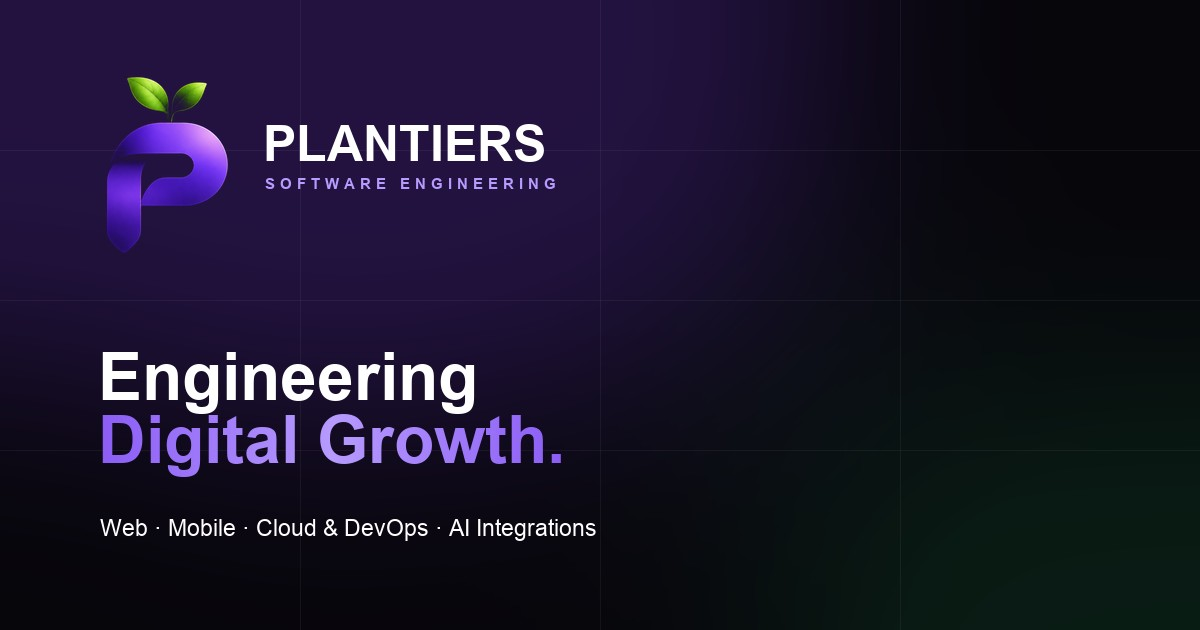
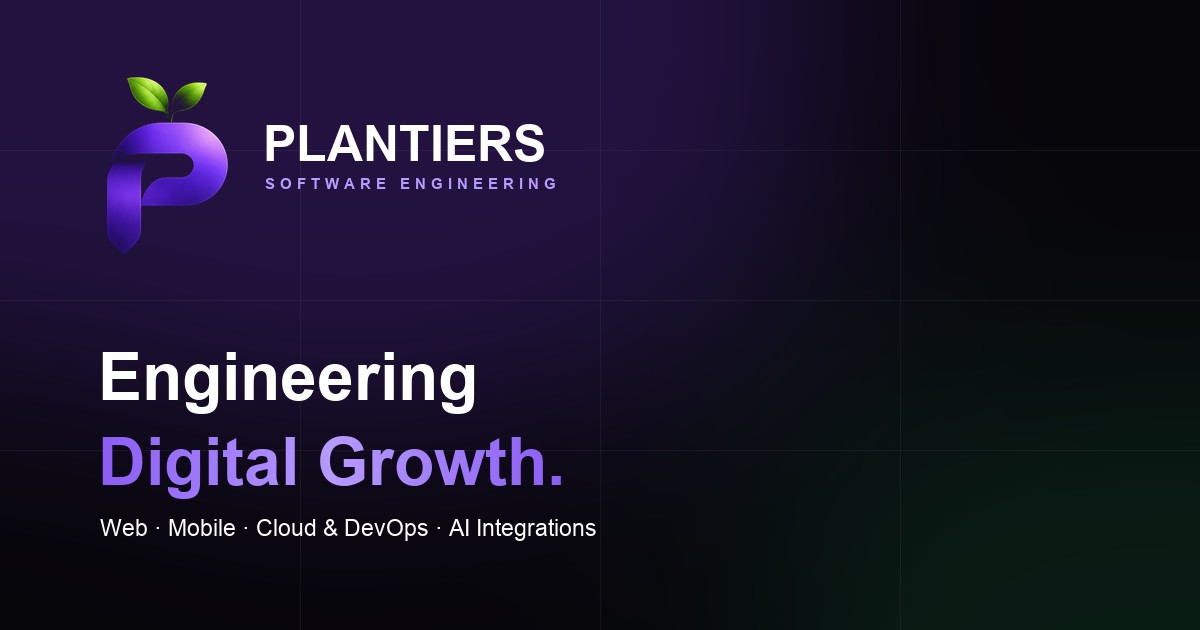
fix(brand): clipped descender on the "g" in the OG image
The gradient-text mask for "Digital Growth." sized its canvas from a
tight textbbox fit with only ~18px of bottom padding after accounting
for the vertical offset — not quite enough for the "g" descender in
"Digital", which was getting cut flat at the mask's bottom edge.
Switched to font-size-based padding (20px top, 34px bottom) instead of
a bbox-derived one, which is both correct and more robust against this
class of bug for any future copy change.

Changed region(s): [[0.0617, 0.6333, 0.4625, 0.8143]]

diff --git a/scripts/generate-brand-assets.py b/scripts/generate-brand-assets.py
@@ -86,17 +86,22 @@ def make_og_image(mark):
 
     draw.text((98, 340), 'Engineering', font=font_xl, fill=(255, 255, 255, 255))
 
+    # Generous, font-size-based padding rather than a tight textbbox fit — a
+    # bbox-relative offset previously left too little room below the
+    # baseline and clipped the descender on the "g" in "Digital".
     line2 = 'Digital Growth.'
     bbox = draw.textbbox((0, 0), line2, font=font_xl)
-    tw, th = bbox[2] - bbox[0], bbox[3] - bbox[1]
-    grad = Image.new('RGB', (tw + 4, th + 20), (0, 0, 0))
+    tw = bbox[2] - bbox[0]
+    pad_top, pad_bottom = 20, 34
+    mask_h = font_xl.size + pad_top + pad_bottom
+    grad = Image.new('RGB', (tw + 4, mask_h), (0, 0, 0))
     gdraw2 = ImageDraw.Draw(grad)
     for gx in range(tw + 4):
         t = abs(((gx / (tw + 4) * 2) % 2) - 1)
-        gdraw2.line([(gx, 0), (gx, th + 20)], fill=(int(183 + (139 - 183) * t), int(155 + (92 - 155) * t), int(255 + (246 - 255) * t)))
-    mask = Image.new('L', (tw + 4, th + 20), 0)
-    ImageDraw.Draw(mask).text((-bbox[0] + 2, -bbox[1] + 2), line2, font=font_xl, fill=255)
-    img.paste(grad, (96, 412), mask)
+        gdraw2.line([(gx, 0), (gx, mask_h)], fill=(int(183 + (139 - 183) * t), int(155 + (92 - 155) * t), int(255 + (246 - 255) * t)))
+    mask = Image.new('L', (tw + 4, mask_h), 0)
+    ImageDraw.Draw(mask).text((-bbox[0] + 2, pad_top), line2, font=font_xl, fill=255)
+    img.paste(grad, (96, 405), mask)
 
     draw = ImageDraw.Draw(img, 'RGBA')
     draw.text((100, 515), 'Web · Mobile · Cloud & DevOps · AI Integrations', font=font_reg, fill=(255, 255, 255, 140))
